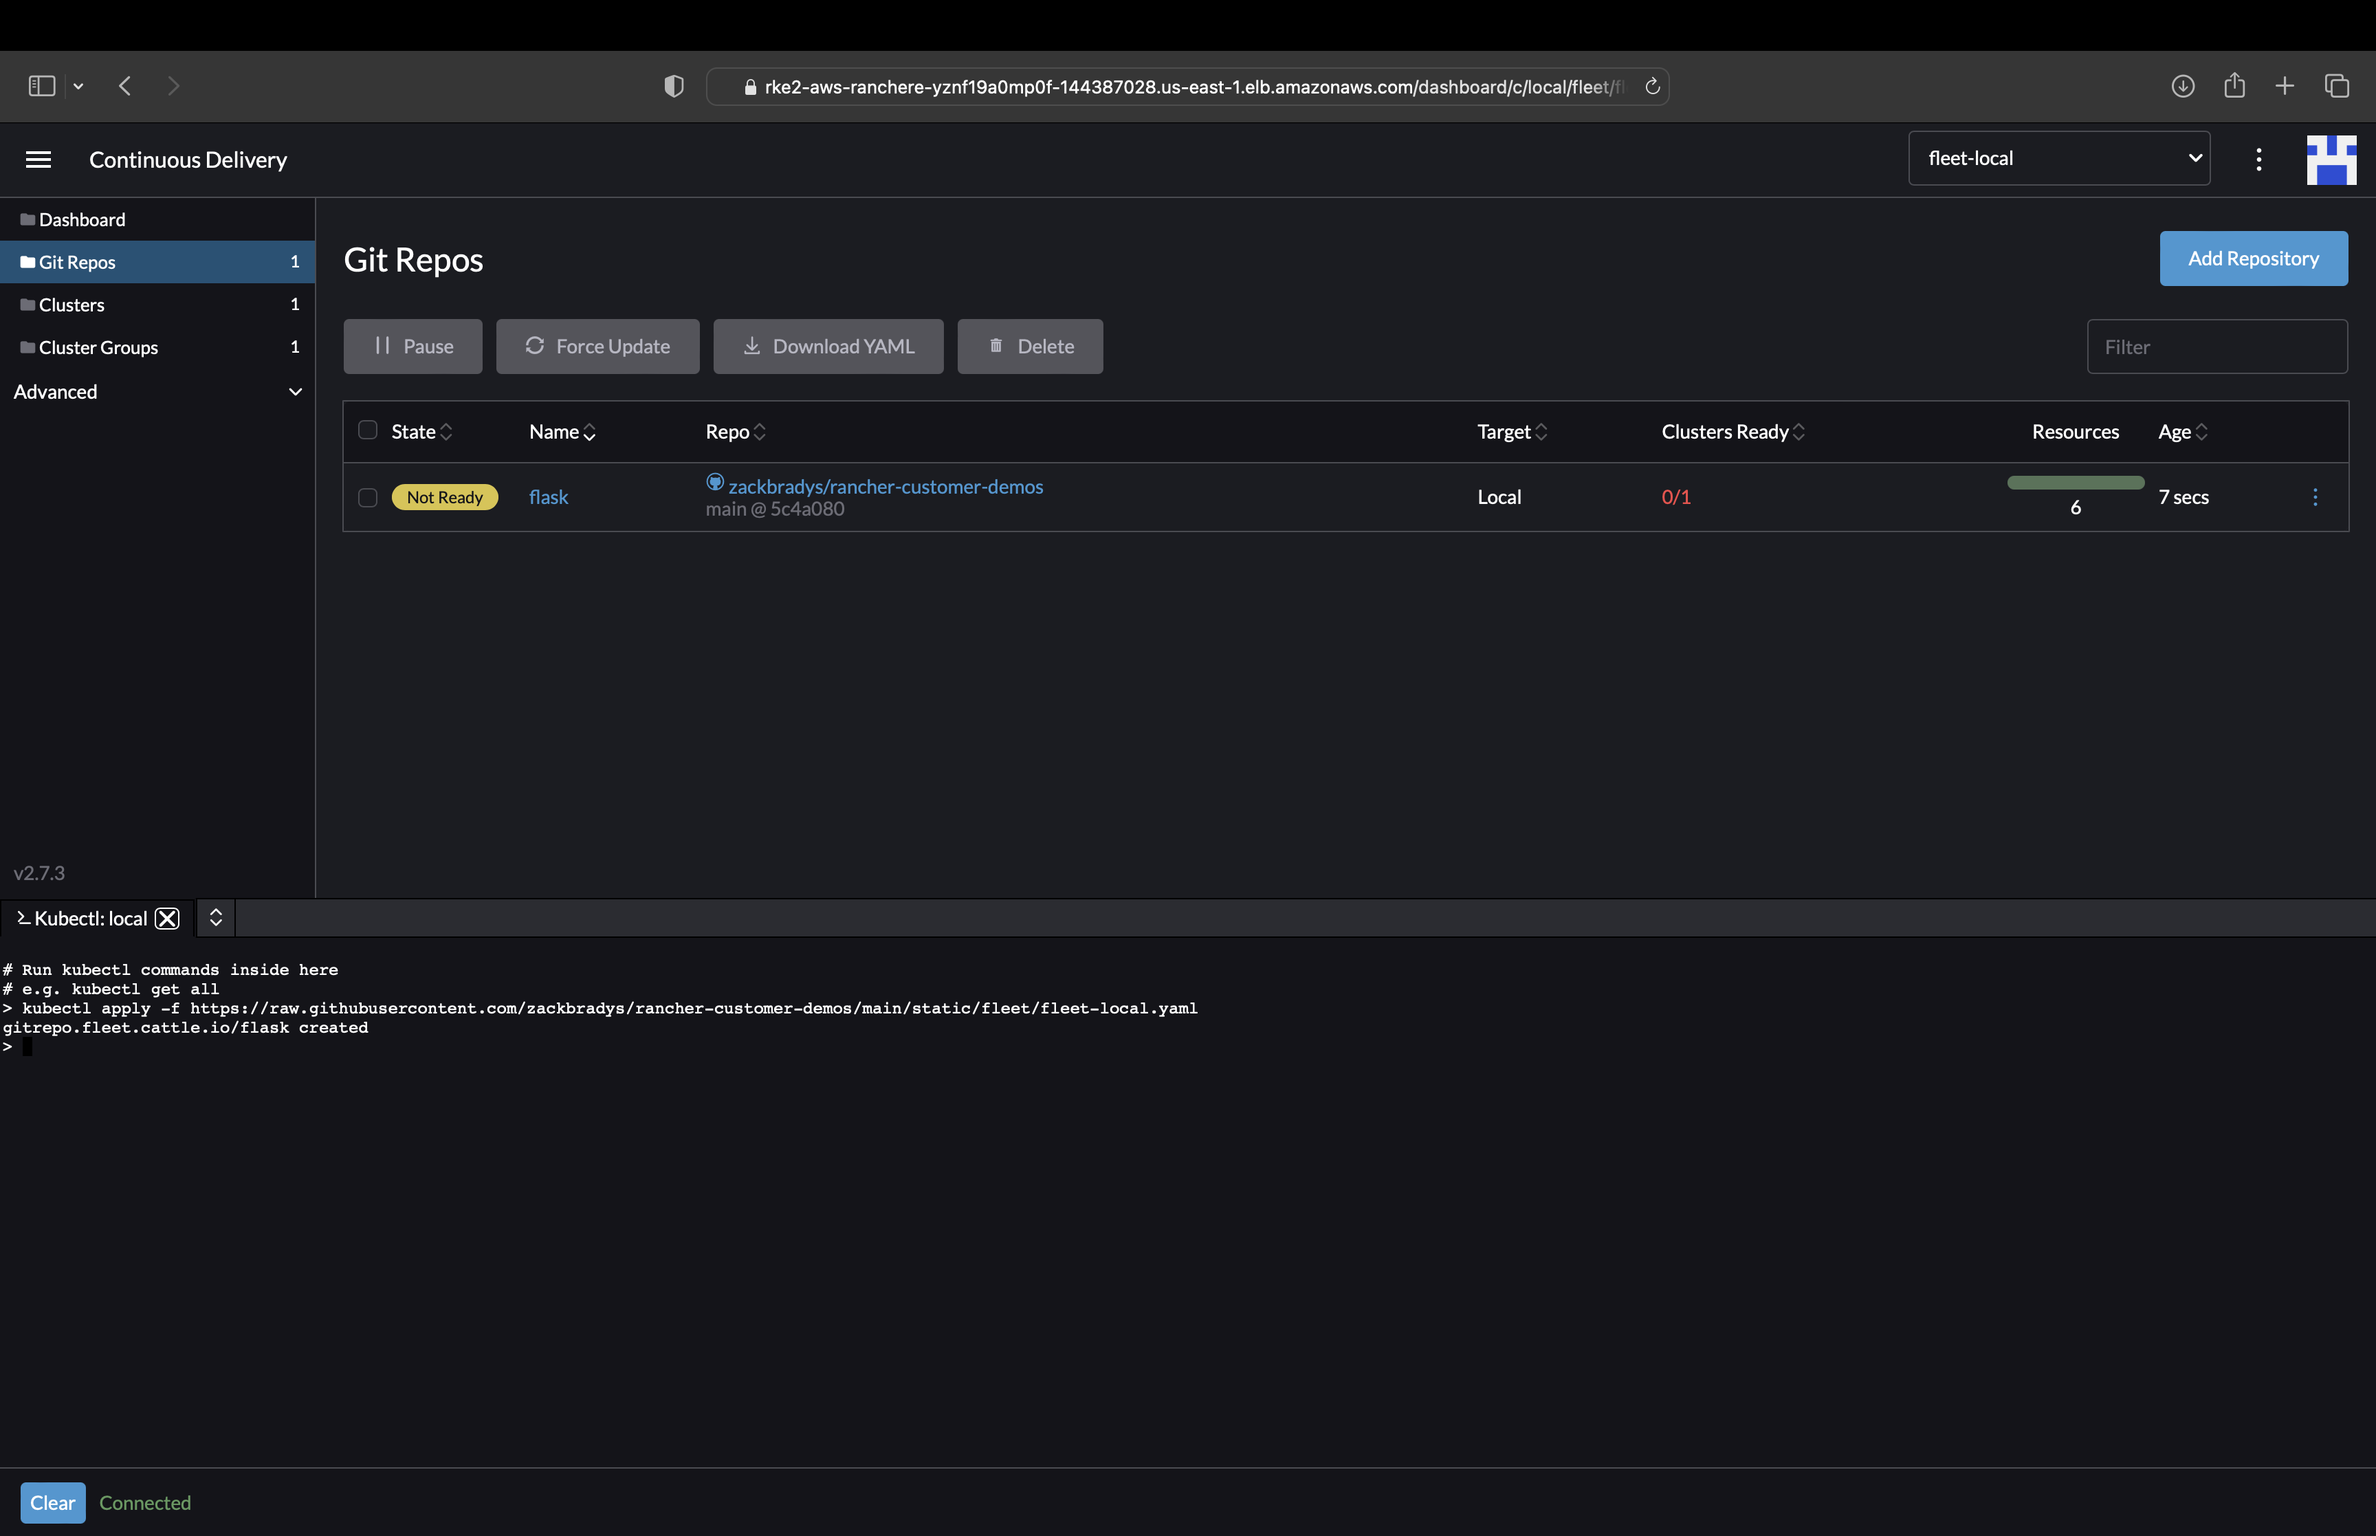
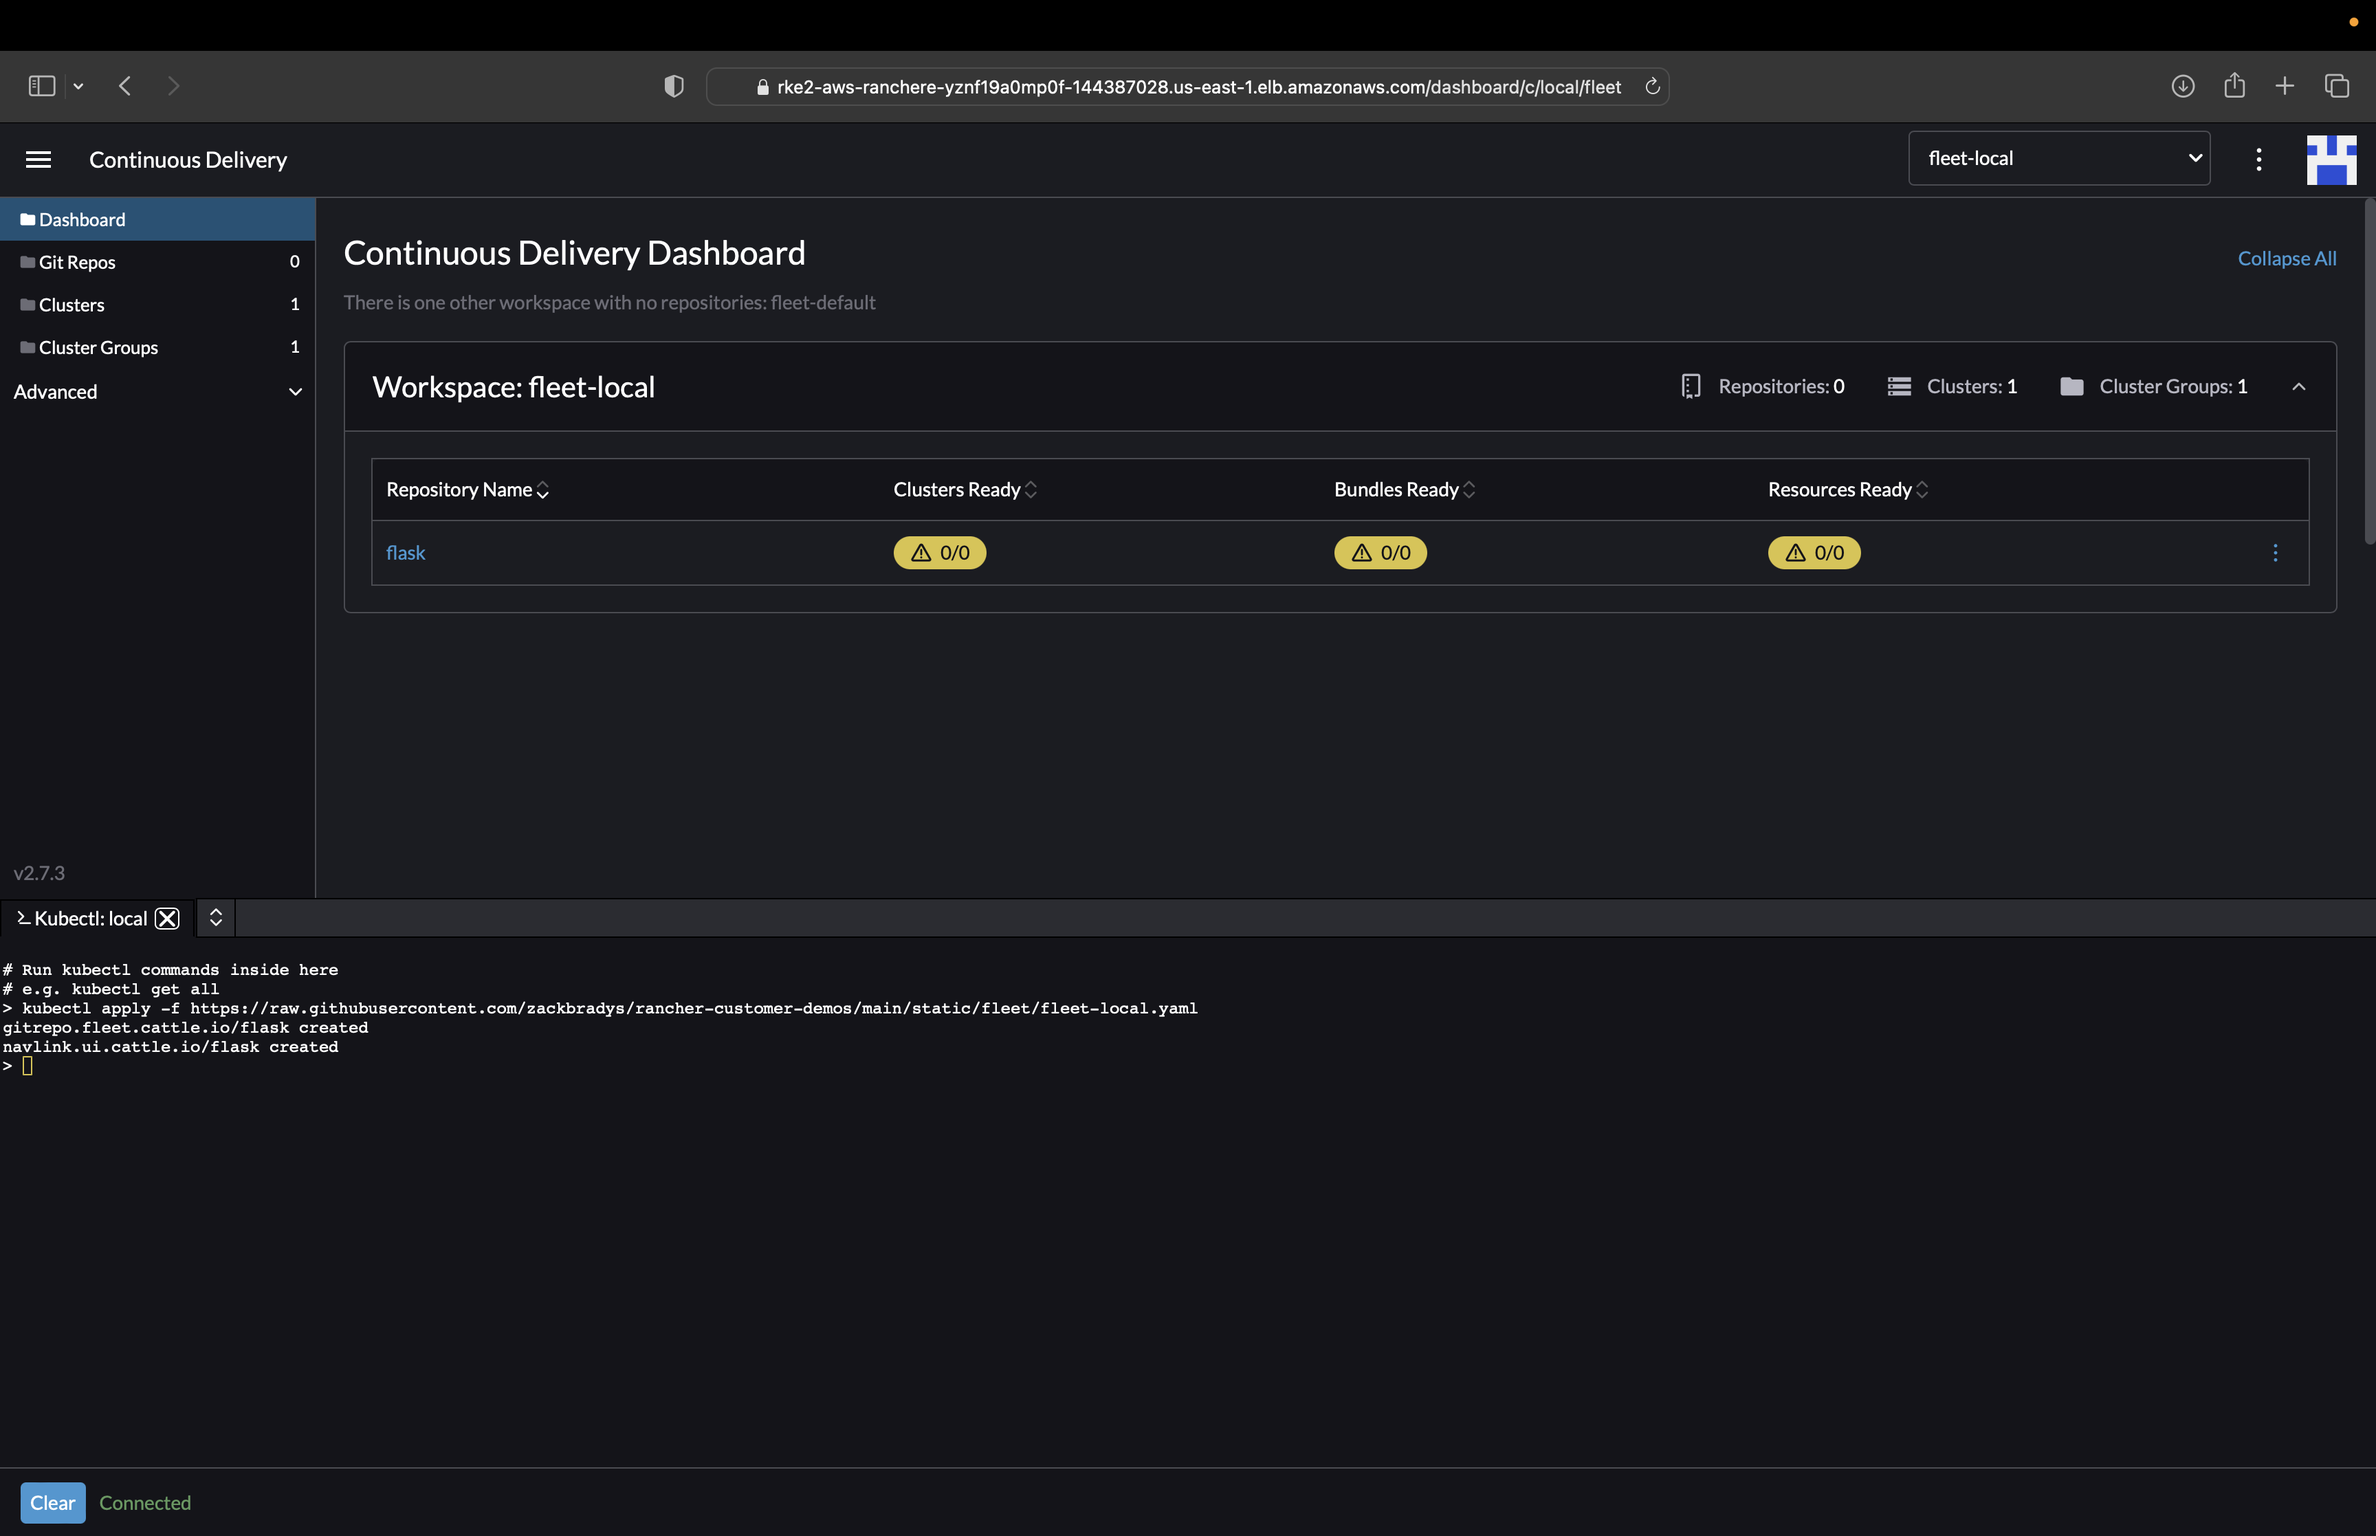
updated fleet yaml and fixed instructions

diff --git a/content/20-exploring-the-cluster/23-kubernetes-applications/index.en.md b/content/20-exploring-the-cluster/23-kubernetes-applications/index.en.md
@@ -56,31 +56,17 @@ Under the **`name`** tab, let's click on **`flask`** to see more details about t
 
 ### Step 6:
 
-Before we go deeper into the demo application, let's make sure we are able to access it by setting up the Rancher Proxy to acccess the Kubernetes Service for the application. Normally, you would be using some type of Kubernetes Ingress, such as an Elastic Load Balancer to access your application.
-
-Copy and paste the following command into the **`kubectl`** shell and press enter. Once the command completes, close the shell.
-
-```bash
-kubectl apply -f https://raw.githubusercontent.com/aws-samples/rancher-on-aws-workshop/main/static/fleet/fleet-navlink.yaml
-```
-
-![rancher-fleet-navlinks](/static/images/content/23-fleet-navlinks.png)
-
-### Step 7:
-
-Now that we have successfully deployed our demo application and ensured we are able access it. Let's head back to the **`local`** cluster, by clicking the hamburger button at the top left of the page. In the side menu, click **`local`**.
+Now that we have successfully deployed our demo application... let's head back to the **`local`** cluster, by clicking the hamburger button at the top left of the page. In the side menu, click **`local`**.
 
 ![rancher-fleet-local-cluster](/static/images/content/23-fleet-local-cluster.png)
 
-### Step 8:
+### Step 7:
 
-Once we are in the **`local`** cluster, in the side menu, you should see a new menu time named **`Flask Demo App`**! This is the demo application that we deployed using Fleet. Let's click on it so we can see how to access it.
+Once we are in the **`local`** cluster, in the side menu, you should see a new menu time named **`Flask Demo App`**! This is the demo application that we deployed using Fleet. Let's click on it so we can see how to access it. Just like with Longhorn and NeuVector, there is a box to click to open the application. Let's right click on the **`Flask Demo App`** box and **`Open in a New Tab`**.
 
 ![rancher-fleet-local-cluster-demo-app](/static/images/content/23-fleet-local-cluster-demo-app.png)
 
-### Step 9:
-
-Just like with Longhorn and NeuVector, there is a box to click to open the application. Let's right click on the **`Flask Demo App`** box and **`Open in a New Tab`**.
+### Step 8:
 
 Here you will see your demo application!! It is a fairly simple application that uses a Flask user interface to interact with Redis database and stores the key:value each time the site is visted by a user. 
 
